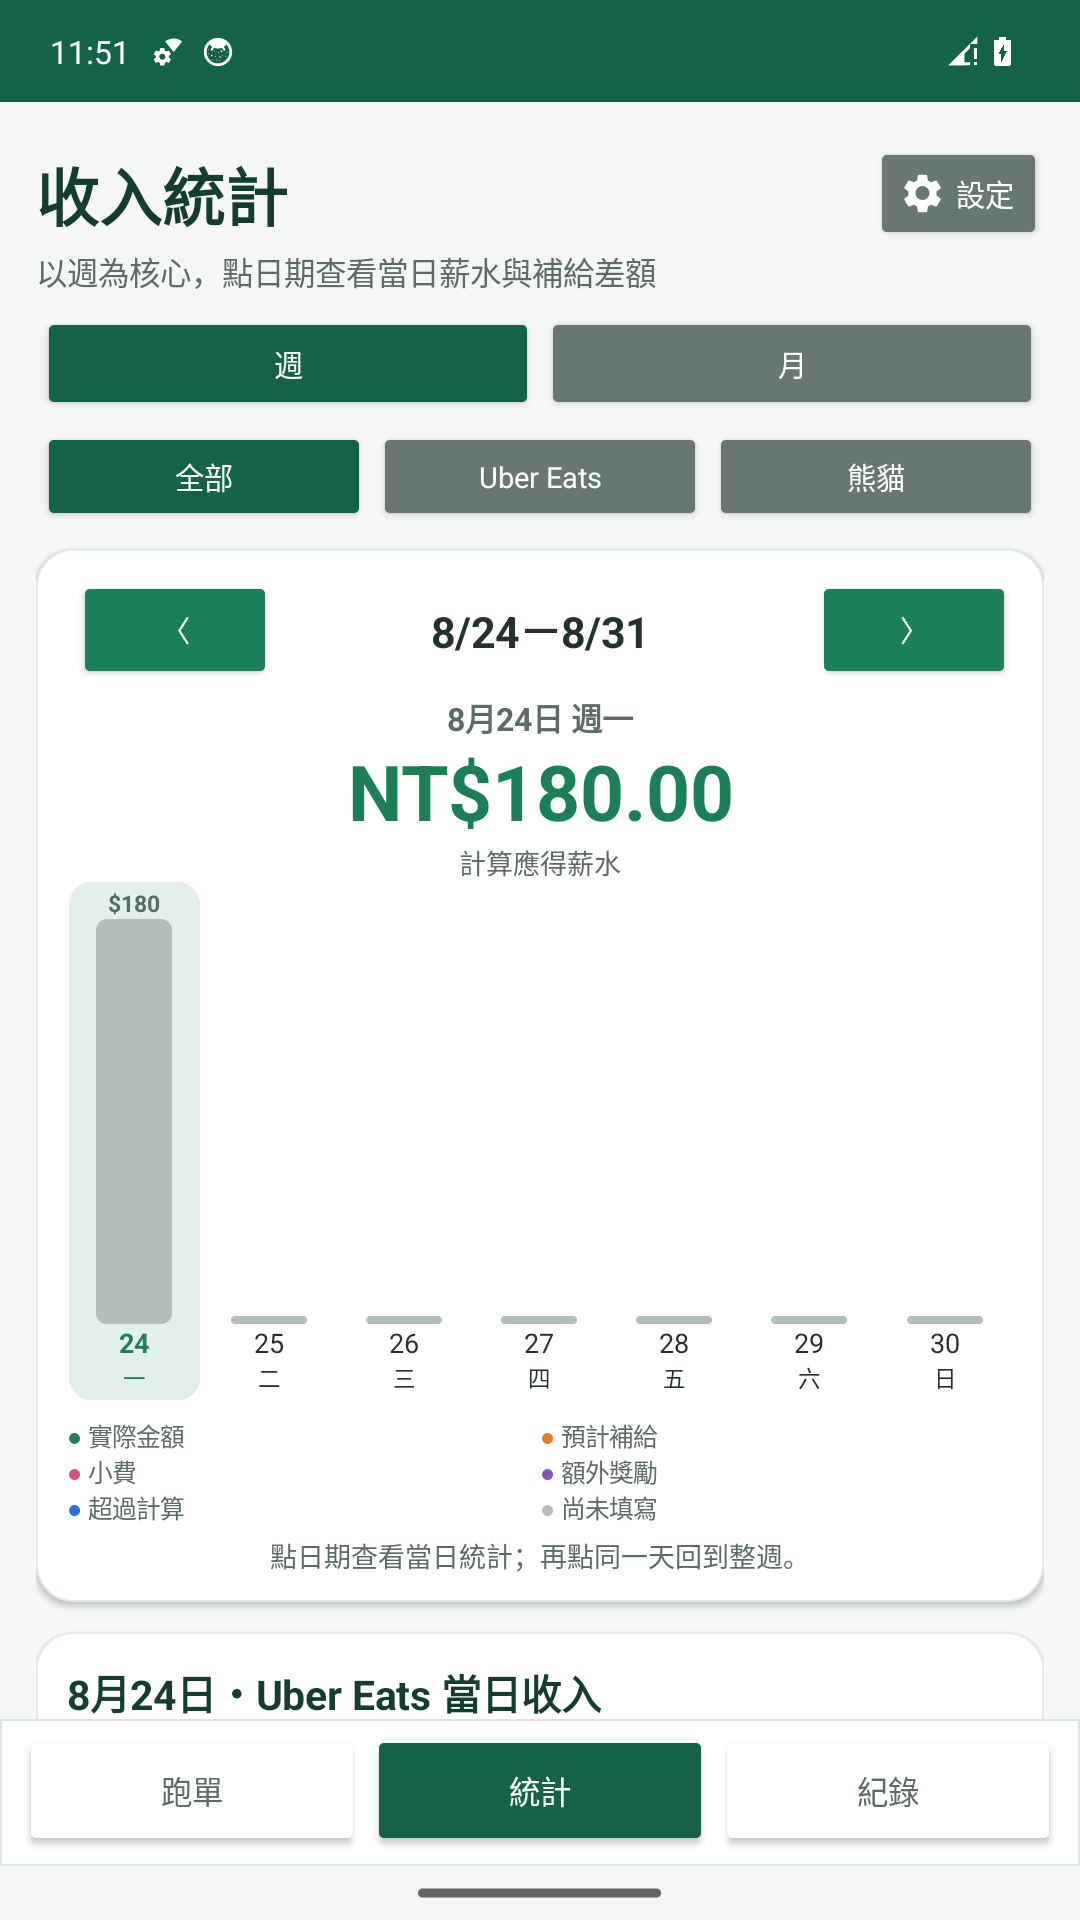
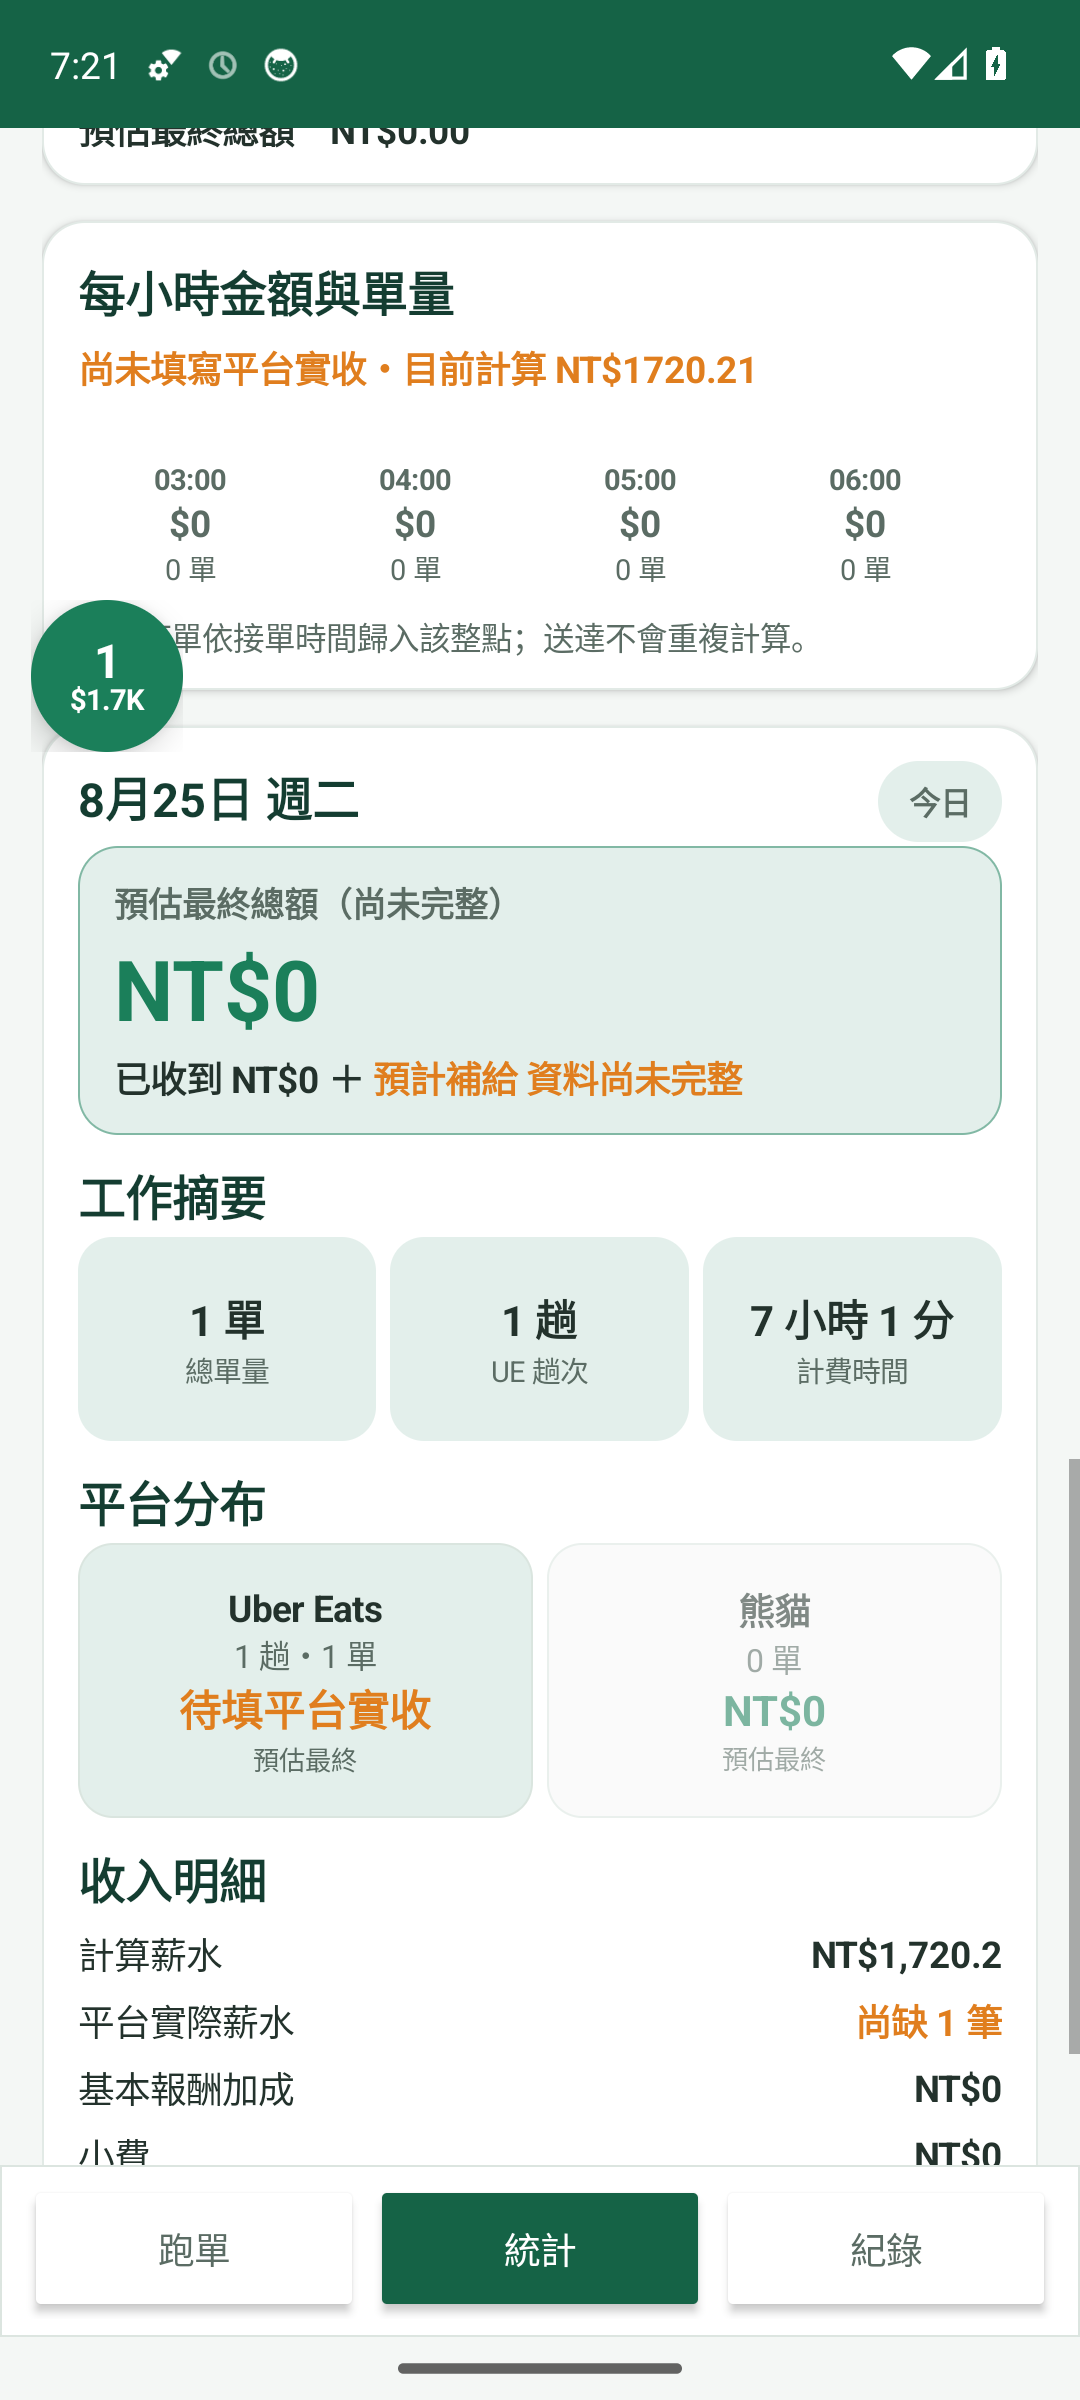
docs: publish RiderCalc 1.0.16 website

diff --git a/index.html b/index.html
@@ -37,7 +37,7 @@
           <a class="button secondary" href="https://forms.gle/NsTCHgXNMiJJhn2u9">申請封測資格</a>
           <a class="button secondary" href="https://docs.google.com/forms/d/e/1FAIpQLSfcZ2h7QMcfCdXkA_WD8o_FB3wdtGkZvESkRhy4cFeCzS8nsg/viewform">回報問題</a>
         </div>
-        <p class="release-note">v1.0.15 已送交 Google Play 封閉測試。請使用測試名單內的 Google 帳號加入；舊版使用者仍可使用 <a href="https://drive.google.com/uc?export=download&amp;id=1HhJ92qLcq2ddGx-ak4au6q6NSs0WlzGk">v1.0.10 遷移版</a>匯出備份。</p>
+        <p class="release-note">v1.0.16 已送交 Google Play 封閉測試。請使用測試名單內的 Google 帳號加入；舊版使用者仍可使用 <a href="https://drive.google.com/uc?export=download&amp;id=1HhJ92qLcq2ddGx-ak4au6q6NSs0WlzGk">v1.0.10 遷移版</a>匯出備份。</p>
       </div>
       <div class="phone-wrap" aria-label="接單計算機新版跑單與懸浮操作畫面">
         <div class="phone">
@@ -85,7 +85,7 @@
 
     <section class="section" id="screenshots">
       <div class="section-heading">
-        <p class="eyebrow">v1.0.15 模擬器實際畫面</p>
+        <p class="eyebrow">v1.0.16 實際畫面</p>
         <h2>跑單、統計、紀錄一次看清楚</h2>
         <p>下列畫面使用虛構店家、測試單號與測試金額，沒有真實外送資料。</p>
       </div>
@@ -93,6 +93,7 @@
         <figure><img src="assets/screenshots/running-orders.png" alt="跑單頁與懸浮操作面板"><figcaption>懸浮跑單：指定訂單操作、新趟與疊單</figcaption></figure>
         <figure><img src="assets/screenshots/income-stats.png" alt="每週收入統計畫面"><figcaption>收入統計：日、週、月金額與單量</figcaption></figure>
         <figure><img src="assets/screenshots/order-history.png" alt="訂單紀錄畫面"><figcaption>訂單紀錄：每單時間、金額與內容</figcaption></figure>
+        <figure><img src="assets/screenshots/settings.png" alt="懸浮操作設定畫面"><figcaption>懸浮設定：首次安裝預設顯示地圖與編輯按鈕</figcaption></figure>
       </div>
     </section>
 
@@ -126,7 +127,7 @@
 
     <section class="section final-cta">
       <div>
-        <p class="eyebrow">Google Play 封閉測試・版本 1.0.15</p>
+        <p class="eyebrow">Google Play 封閉測試・版本 1.0.16</p>
         <h2>用受邀帳號加入測試。</h2>
         <p>Android 8.0 以上，目前僅限台灣與 ridercalc 測試名單內的 Google 帳號。</p>
       </div>

diff --git a/privacy.html b/privacy.html
@@ -34,7 +34,7 @@
       <p>匯入時，本 App 會先驗證與顯示摘要，只有在你再次確認後才會完全取代目前資料。本 App 不會自動把備份上傳到雲端。</p>
 
       <h2>3. 廣告與同意</h2>
-      <p>v1.0.15 封閉測試版只在主 App 底部使用 Google 官方測試橫幅廣告；懸浮工具不顯示廣告。測試廣告不會產生開發者收益。廣告未載入、不同意或目前無法請求廣告時，版位會完全收起，不保留空白區。</p>
+      <p>v1.0.16 封閉測試版只在主 App 底部使用 Google 官方測試橫幅廣告；懸浮工具不顯示廣告。測試廣告不會產生開發者收益。廣告未載入、不同意或目前無法請求廣告時，版位會完全收起，不保留空白區。</p>
       <p>本 App 使用 Google Mobile Ads SDK 與 Google User Messaging Platform（UMP）管理廣告及隱私選擇。依 Google 的 SDK 揭露，服務可能為廣告、分析與防詐用途收集或分享 IP 位址（可推估大致位置）、App 啟動與廣告互動、診斷資料，以及廣告 ID、App Set ID 等裝置識別碼；傳輸資料會使用 TLS 加密。實際處理會依你的裝置設定、地區、同意選擇與 Google 政策而異。</p>
       <p>UMP 會在需要時顯示同意訊息；若法規或 Google 設定要求持續提供隱私選項，本 App 會在「紀錄 → 設定與備份」顯示「廣告隱私權選項」按鈕。你也可以在 Android 設定中重設或刪除廣告 ID。</p>
 
